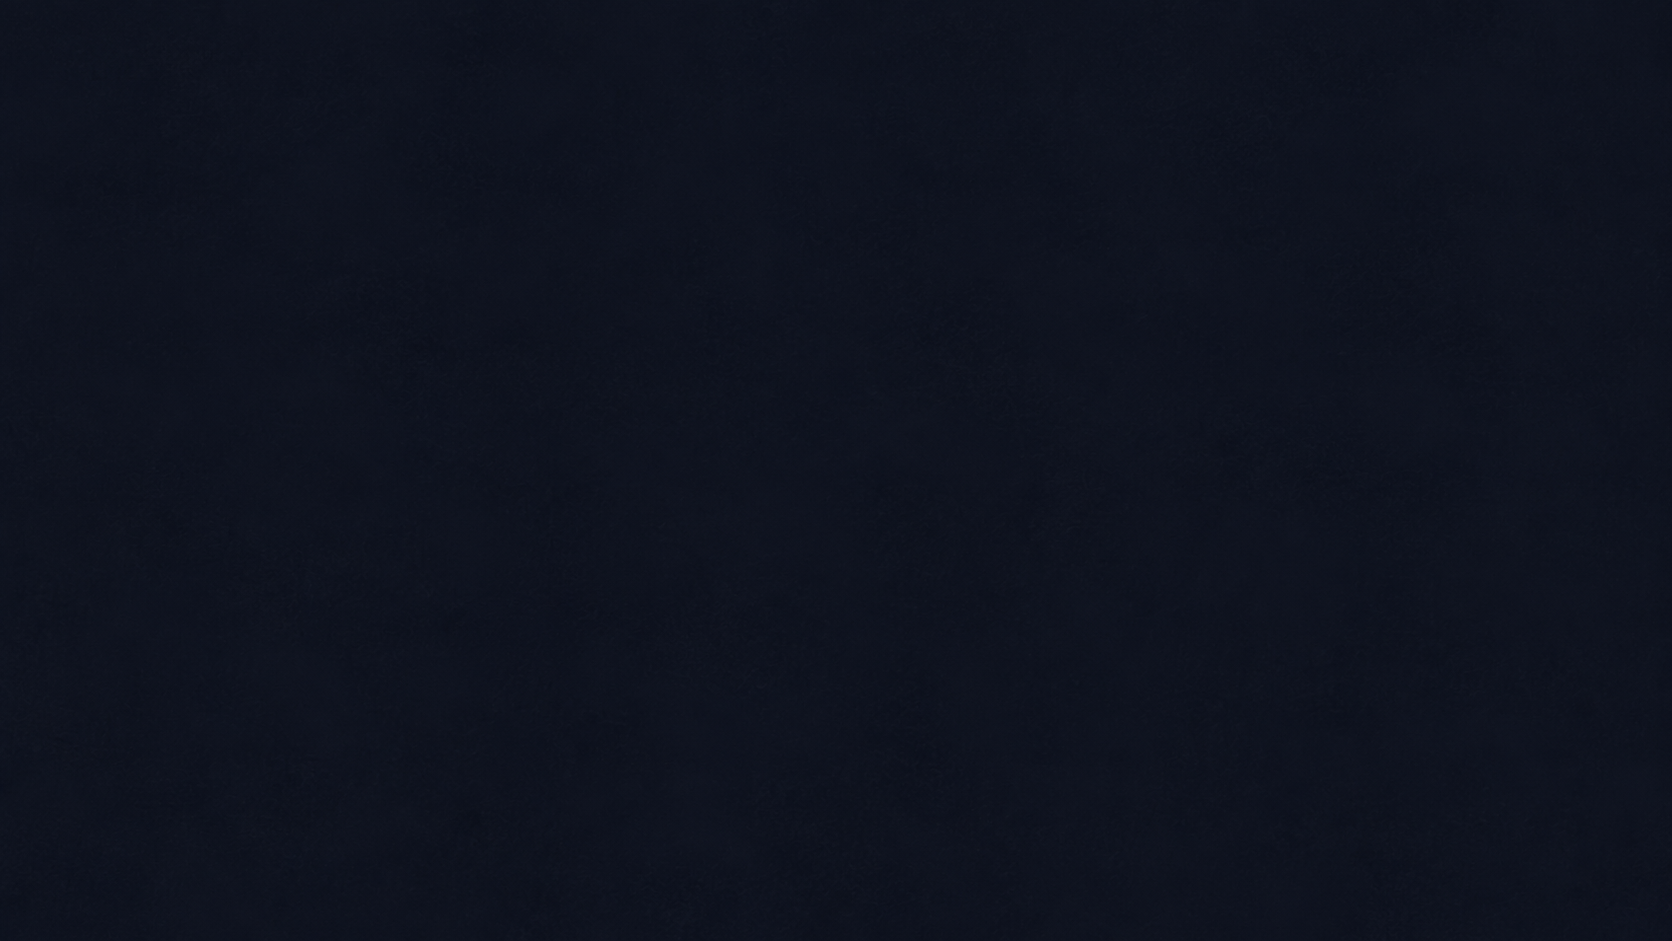
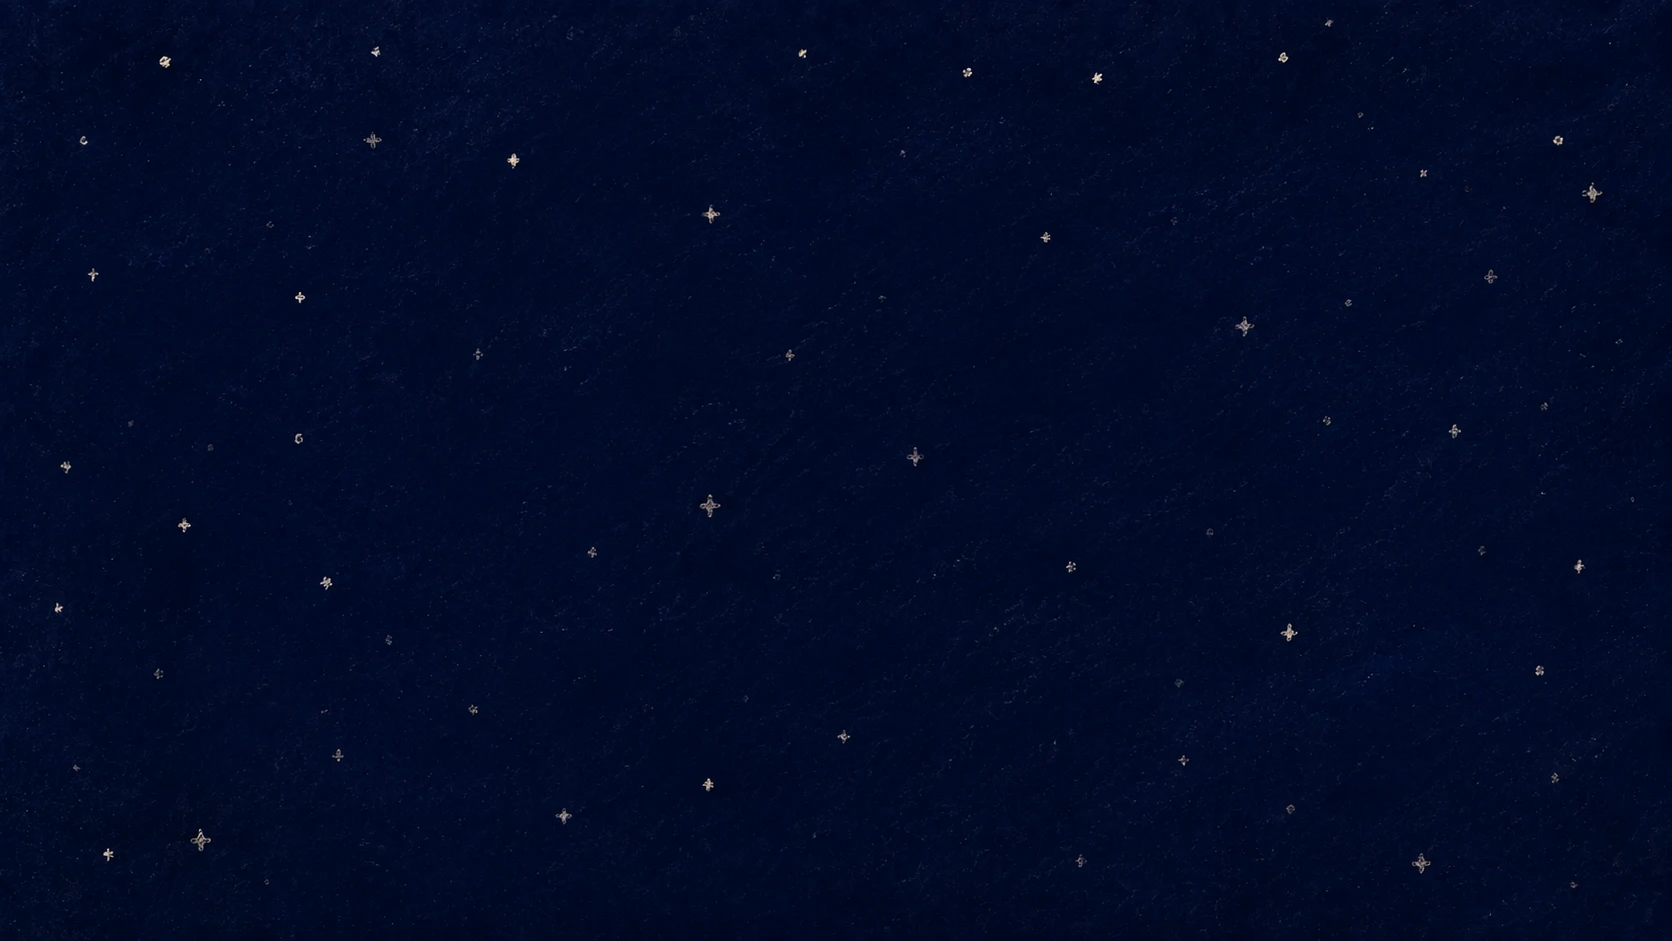
feat: 배경수정

Changed region(s): [[0.933, 0.1849, 0.9641, 0.2157], [0.4043, 0.5239, 0.4354, 0.5547]]

diff --git a/src/game/scenes/game/view.ts b/src/game/scenes/game/view.ts
@@ -10,7 +10,7 @@ import {
   textureForField,
 } from "../../features/presentation";
 import { chapters, stageFor, type PlaySelection } from "../../stages";
-import { goalStarUrl } from "../../assets";
+import { backgroundUrl, goalStarUrl } from "../../assets";
 import styles from "./scene.module.css";
 
 const key = ({ x, y }: Position) => `${x},${y}`;
@@ -26,6 +26,7 @@ export interface GameView {
 export function createGameView(selection: PlaySelection, onHome: () => void): GameView {
   const root = document.createElement("main");
   root.className = styles.root;
+  root.style.backgroundImage = `url(${backgroundUrl})`;
   const header = document.createElement("header");
   header.className = styles.header;
   header.textContent = `${chapters[selection.chapterIndex]!.sign} · ${stageFor(selection).label}`;

diff --git a/src/game/scenes/game/scene.module.css b/src/game/scenes/game/scene.module.css
@@ -1,5 +1,5 @@
 .root {
-  background: #080e14;
+  background: #080e14 center / cover no-repeat;
   height: 100%;
   overflow: hidden;
   position: relative;
